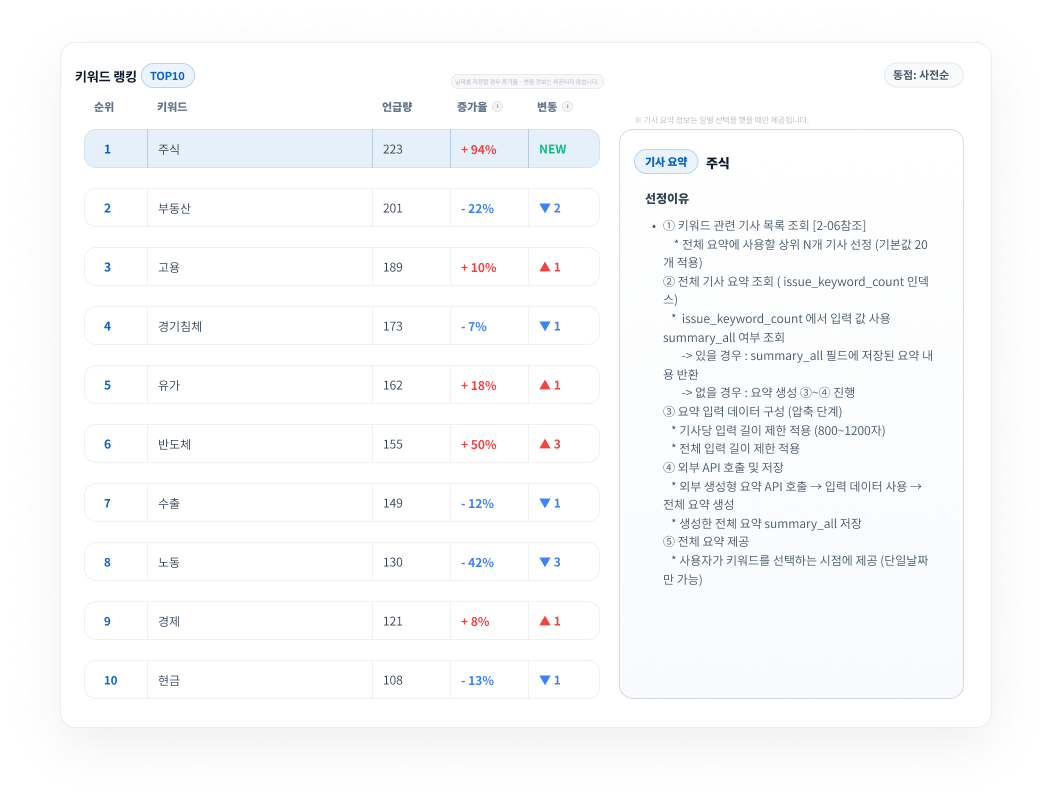
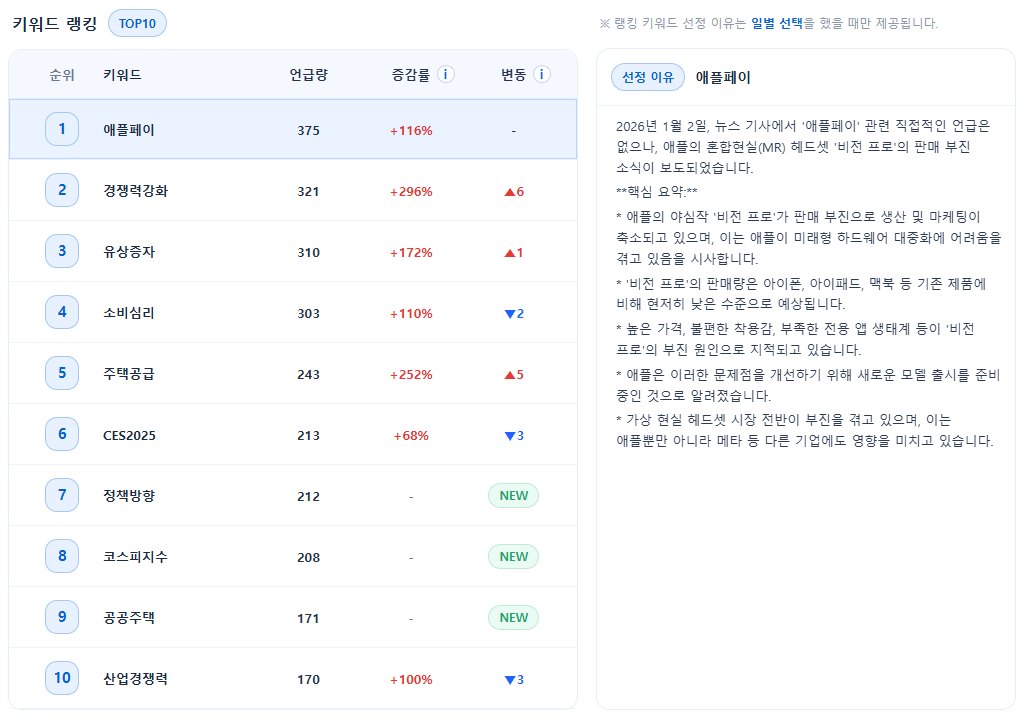
finally

diff --git a/apps/service/view/home.html b/apps/service/view/home.html
@@ -54,21 +54,46 @@
       <div class="product__frame">
         <div class="product-slider" aria-label="기능 미리보기 슬라이더">
           <div class="product-slider__track">
-            <!-- 0 -->
-            <img class="product-slider__slide" src="/view/img/home_slider_1.png" alt="키워드 트렌딩 분석 미리보기" />
-            <!-- 1 -->
-            <img class="product-slider__slide" src="/view/img/home_slider_2.png" alt="낚시성 기사 판별 미리보기" />
-            <!-- 2 -->
-            <img class="product-slider__slide" src="/view/img/home_slider_2.png" alt="기사 감정 분석 미리보기" />
-            <!-- 3 -->
-            <img class="product-slider__slide" src="/view/img/home_slider_4.png" alt="키워드 언급량 분석 미리보기" />
-            <!-- 4 -->
-            <img class="product-slider__slide" src="/view/img/home_slider_2.png" alt="기사 요약 서비스 미리보기" />
+          <!-- 0 -->
+          <div class="product-slider__slide">
+            <div class="product-slider__frame">
+              <img class="product-slider__img" src="/view/img/home_slider_1.png" alt="키워드 트렌딩 분석 미리보기" />
+            </div>
           </div>
-        </div>
+
+          <!-- 1 -->
+          <div class="product-slider__slide">
+            <div class="product-slider__frame">
+              <img class="product-slider__img" src="/view/img/home_trust.png" alt="낚시성 기사 판별 미리보기" />
+            </div>
+          </div>
+
+          <!-- 2 -->
+          <div class="product-slider__slide">
+            <div class="product-slider__frame">
+              <img class="product-slider__img" src="/view/img/home_sentiment.png" alt="기사 감정 분석 미리보기" />
+            </div>
+          </div>
+
+          <!-- 3 -->
+          <div class="product-slider__slide">
+            <div class="product-slider__frame">
+              <img class="product-slider__img" src="/view/img/home_slider_4.png" alt="키워드 언급량 분석 미리보기" />
+            </div>
+          </div>
+
+          <!-- 4 -->
+          <div class="product-slider__slide">
+            <div class="product-slider__frame">
+              <img class="product-slider__img" src="/view/img/home_summary.png" alt="기사 요약 서비스 미리보기" />
+            </div>
+          </div>
+        </div> 
       </div>
 
-      <div id="features" class="feature-row">
+    </div>
+
+    <div id="features" class="feature-row">
         <article class="mini-card is-active" data-slide="0" tabindex="0" role="button" aria-label="키워드 트렌딩 분석 보기">
           <div class="mini-card__icon mini-card__icon--blue" aria-hidden="true">
             <svg viewBox="0 0 24 24" fill="none">
@@ -192,8 +217,8 @@
     <div class="shell footer__inner">
       <div class="footer__brand">TrendScope</div>
       <div class="footer__meta">
-        <div>문의: help@yourdomain.com</div>
-        <div>© TrendScope. All rights reserved.</div>
+        <div>문의: TrendScope</div>
+        <div>© TrendScope.</div>
       </div>
     </div>
   </footer>

diff --git a/apps/service/view/css/home_style.css b/apps/service/view/css/home_style.css
@@ -232,11 +232,6 @@ img {
   border: 1px solid rgba(15, 23, 42, .07);
   background: rgba(255, 255, 255, .55);
   box-shadow: 0 10px 24px rgba(15, 23, 42, .06);
-
-  touch-action: pan-y;
-  /* ✅ 세로 스크롤은 허용, 가로 스와이프는 JS가 처리 */
-  user-select: none;
-  cursor: grab;
 }
 
 .product-slider.is-dragging {
@@ -251,27 +246,18 @@ img {
   will-change: transform;
 }
 
+/* ✅ 슬라이드(컨테이너) */
 .product-slider__slide {
   flex: 0 0 100%;
   width: 100%;
-  height: auto;
-  display: block;
-
-  object-fit: contain;
-  object-position: center;
-
-  --zoom: 1;
-  --ox: 50%;
-  --oy: 50%;
-
-  transform: scale(1);
-  transform-origin: var(--ox) var(--oy);
-  
-  backface-visibility: hidden;
+  padding: 18px;                  /* ✅ 박스 여백 */
+  display: flex;
+  align-items: center;
+  justify-content: center;
 }
 
 .product-slider__slide.is-active {
-  transform: scale(var(--zoom));
+  transform: none;
 }
 
 .product-slider__slide[data-idx="1"] {
@@ -294,6 +280,15 @@ img {
   --ox: 8%;
   --oy: 6%;
 }
+
+.product-slider__frame{
+  background: rgba(255,255,255,.78);
+  backdrop-filter: blur(10px);          /* ✅ 뒤 배경 블러 */
+  -webkit-backdrop-filter: blur(10px);  /* 사파리 */
+  box-shadow: 0 6px 16px -6px rgba(140,148,167,.12),
+    0 2px 36px rgba(156,162,175,.08);;
+}
+
 
 /* 카드 클릭 가능 느낌 + 활성 상태 */
 .mini-card {

diff --git a/apps/service/view/css/word.css b/apps/service/view/css/word.css
@@ -656,3 +656,50 @@ main {
   visibility: hidden;   /* 레이아웃은 유지, 화면만 숨김 */
 }
 
+/* =========================
+   1) 모달에서 스크롤이 "확실히" body에서 나게 만들기
+========================= */
+.word-modal-body{
+  flex: 1 1 auto;        /* ✅ 모달 헤더/푸터 제외한 나머지 공간을 차지 */
+  min-height: 0;         /* ✅ flex 자식 overflow 스크롤 필수 */
+  overflow-y: auto;
+  overflow-x: hidden;
+  scrollbar-gutter: stable;
+}
+
+/* 혹시 bookmark-list가 스크롤 컨테이너가 되는 경우도 커버 */
+.bookmark-list{
+  min-height: 0;
+}
+
+/* =========================
+   2) 스크롤바 스타일: body + bookmark-list 둘 다 적용
+========================= */
+.word-modal-body::-webkit-scrollbar,
+.bookmark-list::-webkit-scrollbar{
+  width: 12px;
+}
+
+.word-modal-body::-webkit-scrollbar-track,
+.bookmark-list::-webkit-scrollbar-track{
+  background: #f1f4fb;
+  border-radius: 999px;
+}
+
+.word-modal-body::-webkit-scrollbar-thumb,
+.bookmark-list::-webkit-scrollbar-thumb{
+  background: #c7d6f5;
+  border-radius: 999px;
+}
+
+.word-modal-body::-webkit-scrollbar-thumb:hover,
+.bookmark-list::-webkit-scrollbar-thumb:hover{
+  background: #a9c2f2;
+}
+
+/* Firefox */
+.word-modal-body,
+.bookmark-list{
+  scrollbar-width: thin;
+  scrollbar-color: #c7d6f5 #f1f4fb;
+}

diff --git a/apps/service/view/signup.html b/apps/service/view/signup.html
@@ -13,12 +13,11 @@
     <div id="tsLeft">
       <div class="logo"><a href="/">TrendScope</a></div>
       <p class="desc">
-        회원가입 후 로그인하면 TrendScope 기능을 이용할 수 있어요.<br>
-        회원가입 정보는 서버(DB)에 저장됩니다.
+        회원가입 후 로그인하면 TrendScope 기능을 이용할 수 있어요.
       </p>
       <div class="status">
         <span class="dot"></span>
-        서버 연결 모드
+        TrendScope
       </div>
     </div>
 
